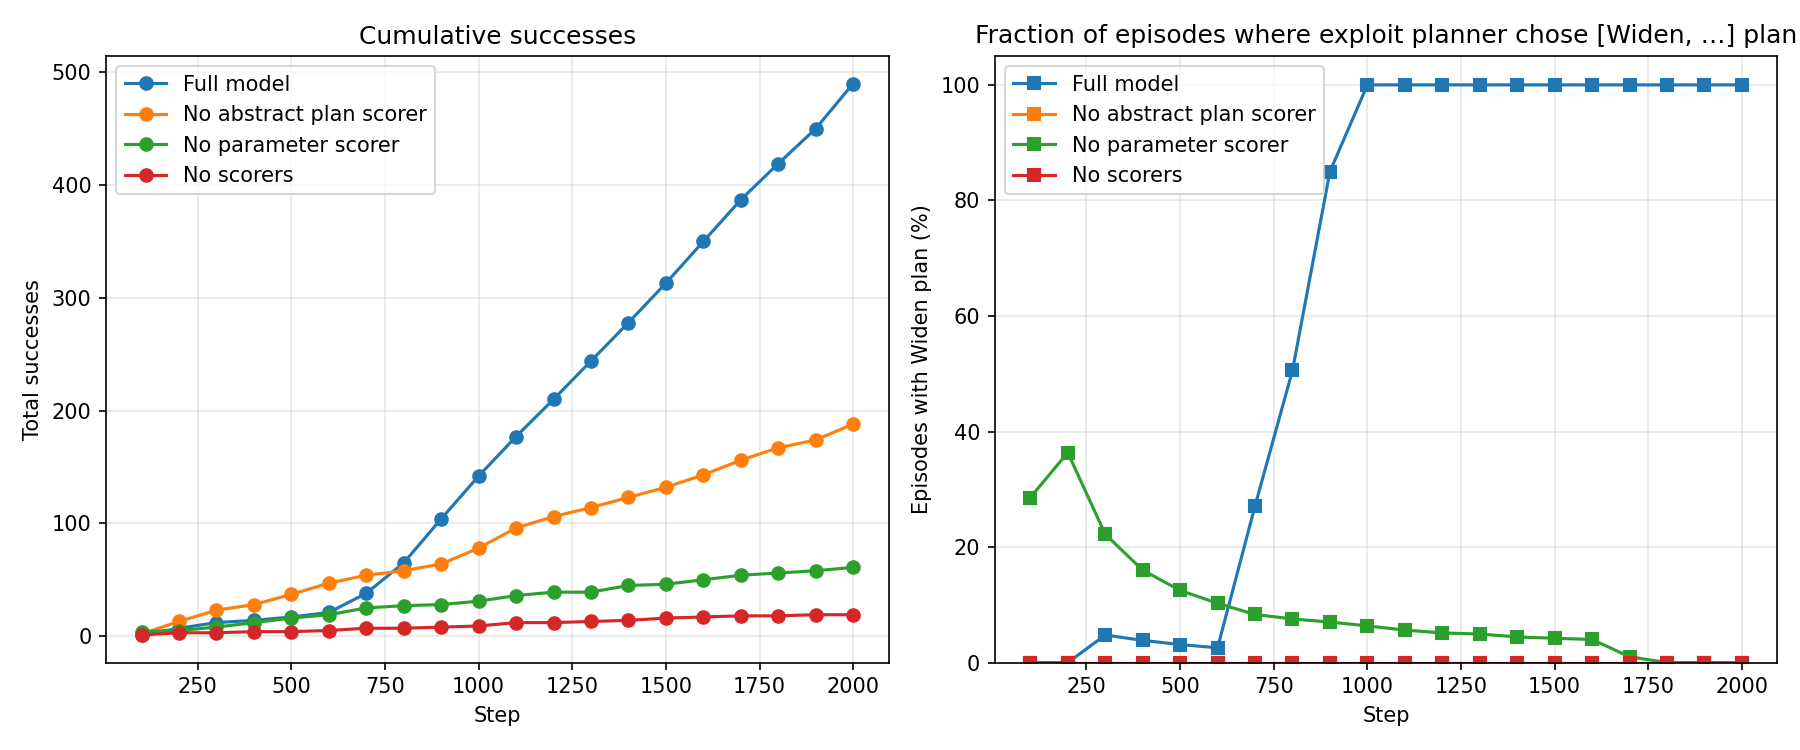
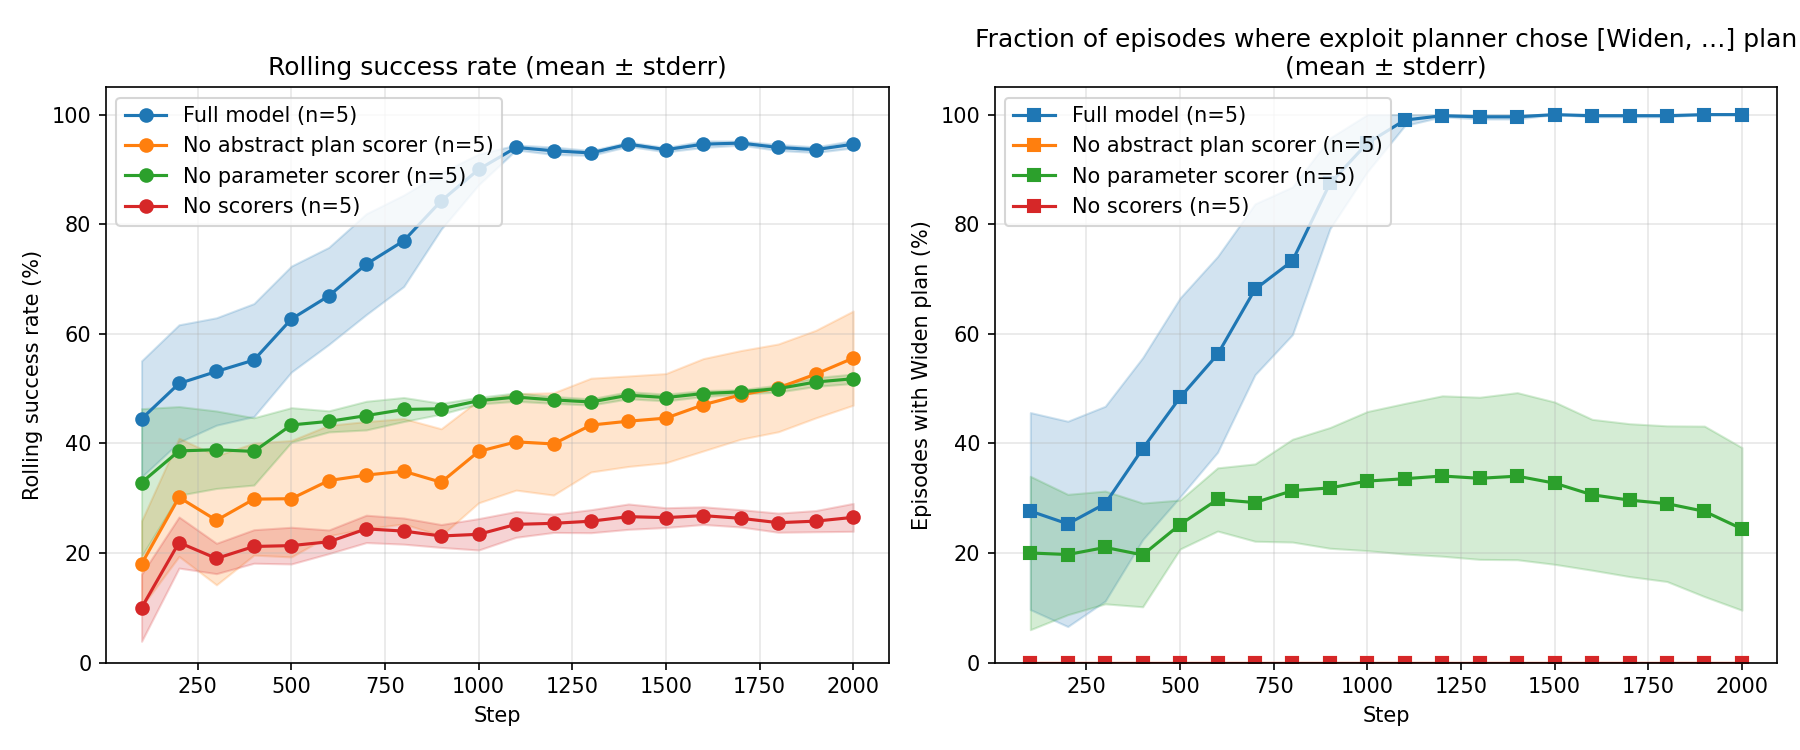
ablations

diff --git a/experiments/plot_bandit_ablation.py b/experiments/plot_bandit_ablation.py
@@ -40,7 +40,7 @@ _ROW_RE = re.compile(
 def parse_out_file(path: Path) -> dict:
     """Parse a bandit_ablation .out file and return metrics."""
     steps: list[int] = []
-    total_successes: list[int] = []
+    success_rates: list[float] = []
     widen_rates: list[float] = []
 
     with open(path) as f:
@@ -48,12 +48,12 @@ def parse_out_file(path: Path) -> dict:
             m = _ROW_RE.match(line)
             if m:
                 steps.append(int(m.group(1)))
+                success_rates.append(float(m.group(2)) / 100.0)
                 widen_rates.append(float(m.group(3)) / 100.0)
-                total_successes.append(int(m.group(4)))
 
     return {
         "steps": steps,
-        "total_successes": total_successes,
+        "success_rates": success_rates,
         "widen_rates": widen_rates,
     }
 
@@ -66,19 +66,19 @@ def get_task_id(path: Path) -> str | None:
 def aggregate_runs(runs: list[dict]) -> dict:
     """Average metrics across seeds, truncating to the shortest run.
 
-    Returns means and stderrs for total_successes and widen_rates.
+    Returns means and stderrs for success_rates and widen_rates.
     """
     min_len = min(len(r["steps"]) for r in runs)
     steps = runs[0]["steps"][:min_len]
 
-    successes = np.array([r["total_successes"][:min_len] for r in runs], dtype=float)
+    rates = np.array([r["success_rates"][:min_len] for r in runs], dtype=float)
     widens = np.array([r["widen_rates"][:min_len] for r in runs], dtype=float)
 
     n = len(runs)
     return {
         "steps": steps,
-        "successes_mean": successes.mean(axis=0),
-        "successes_stderr": successes.std(axis=0, ddof=1) / np.sqrt(n),
+        "rates_mean": rates.mean(axis=0) * 100,
+        "rates_stderr": rates.std(axis=0, ddof=1) / np.sqrt(n) * 100,
         "widens_mean": widens.mean(axis=0) * 100,
         "widens_stderr": widens.std(axis=0, ddof=1) / np.sqrt(n) * 100,
         "n": n,
@@ -134,11 +134,11 @@ def main() -> None:
         full_label = f"{label} (n={n})"
 
         ax = axes[0]
-        line, = ax.plot(steps, agg["successes_mean"], marker="o", label=full_label)
+        line, = ax.plot(steps, agg["rates_mean"], marker="o", label=full_label)
         ax.fill_between(
             steps,
-            agg["successes_mean"] - agg["successes_stderr"],
-            agg["successes_mean"] + agg["successes_stderr"],
+            agg["rates_mean"] - agg["rates_stderr"],
+            agg["rates_mean"] + agg["rates_stderr"],
             alpha=0.2,
             color=line.get_color(),
         )
@@ -153,11 +153,12 @@ def main() -> None:
             color=line.get_color(),
         )
 
-    # --- Total successes ---
+    # --- Rolling success rate ---
     ax = axes[0]
     ax.set_xlabel("Step")
-    ax.set_ylabel("Total successes")
-    ax.set_title("Cumulative successes (mean ± stderr)")
+    ax.set_ylabel("Rolling success rate (%)")
+    ax.set_title("Rolling success rate (mean ± stderr)")
+    ax.set_ylim(0, 105)
     ax.legend()
     ax.grid(True, alpha=0.3)
 
